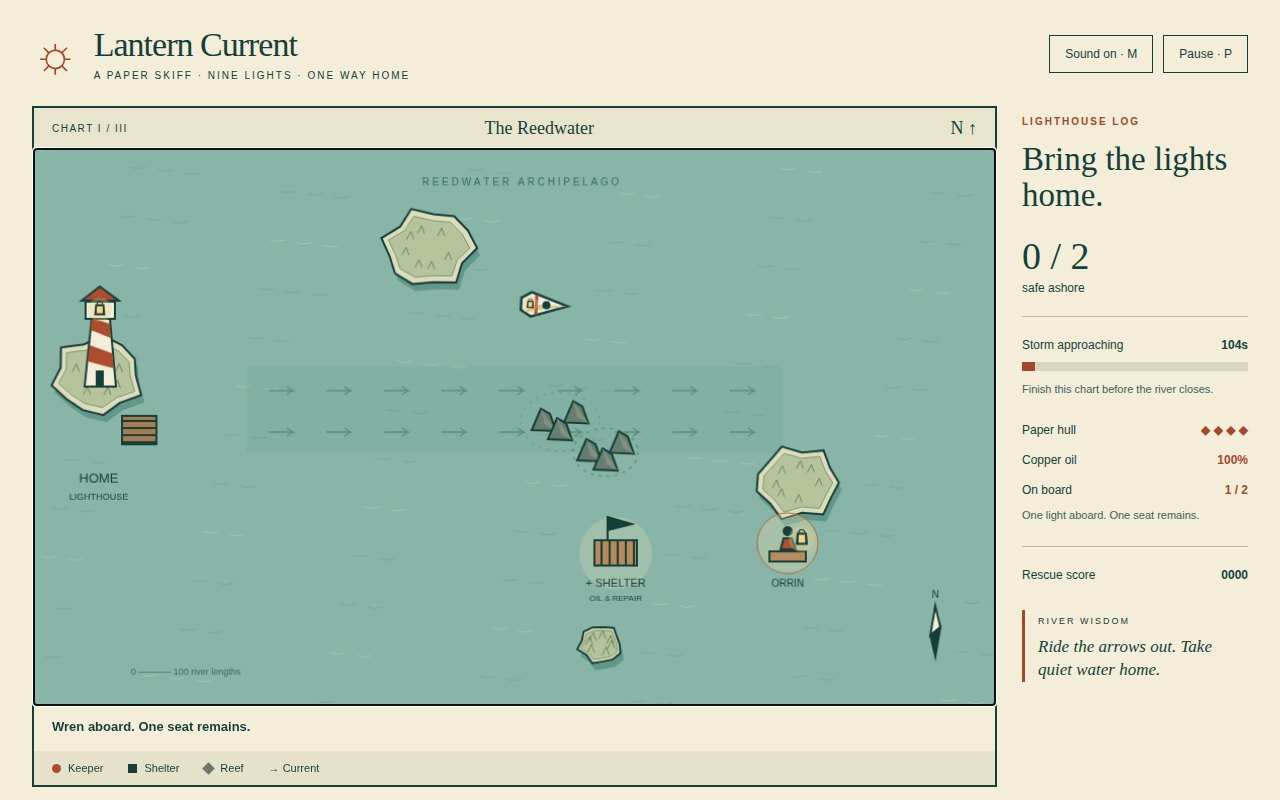
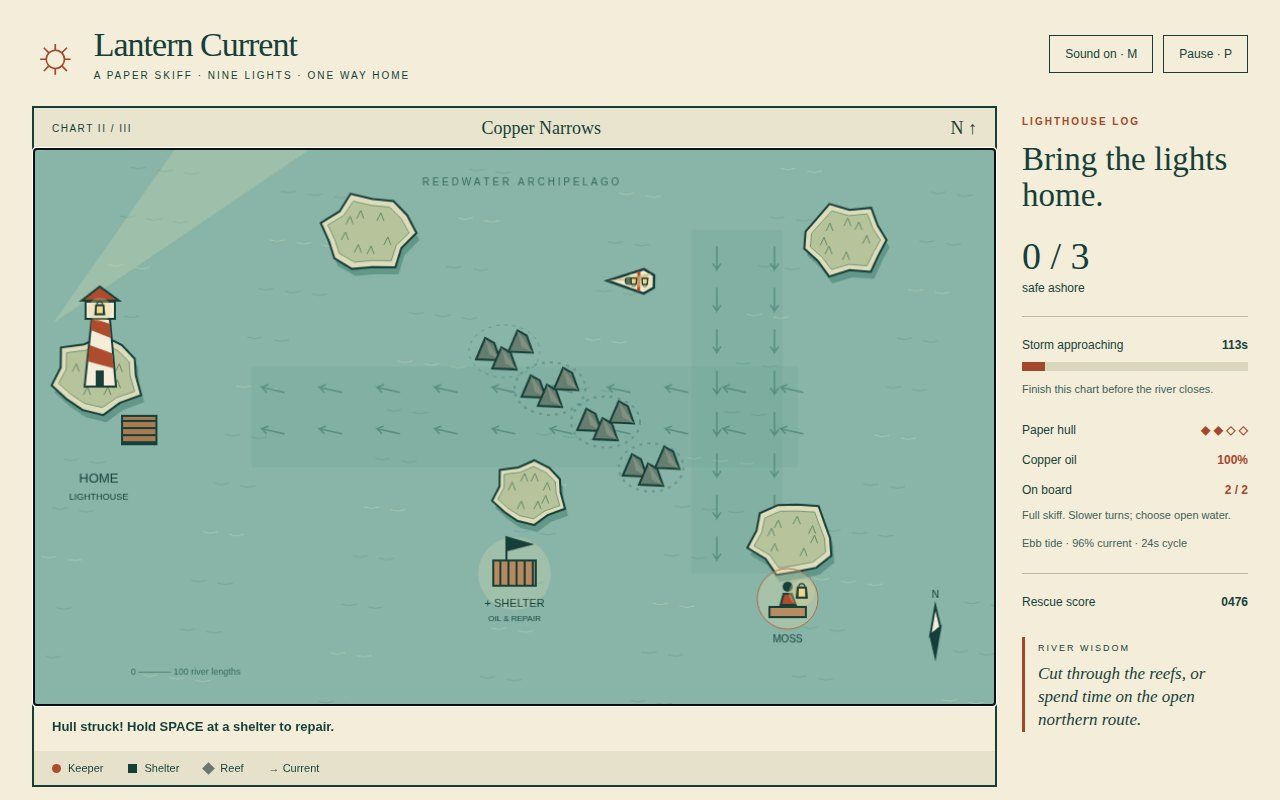
[verified] Add earned chart logbook, replay, and reversing tides

diff --git a/game/app.js b/game/app.js
@@ -1,9 +1,31 @@
-import { createGame, startGame, nextStage, step, createClock, snapshot } from './simulation.js';
+import { createGame, startGame, nextStage, step, createClock, snapshot, tideFactor } from './simulation.js';
+import { loadLogbook, isUnlocked, recordCompletion } from './logbook.js';
 import { STAGES } from './stages.js';
 import { drawRiver } from './render.js';
 import { RiverAudio } from './audio.js';
 const $ = id => document.getElementById(id);
 const state = createGame(), audio = new RiverAudio(), keys = new Set();
+const logbook = loadLogbook();
+const selector = document.createElement('div');
+selector.id = 'chart-selector'; selector.setAttribute('aria-label', 'Single-chart replay');
+$('panel').append(selector);
+const tide = document.createElement('p'); tide.id = 'tide'; tide.className = 'hint';
+$('cargo-note').after(tide);
+function updateLogbook() {
+  selector.replaceChildren();
+  const label = document.createElement('p'); label.textContent = 'Tide Logbook · replay one unlocked chart'; selector.append(label);
+  STAGES.forEach((chart, index) => {
+    const button = document.createElement('button'); button.id = `replay-${index}`;
+    button.disabled = !isUnlocked(logbook, index);
+    button.textContent = `${index + 1}. ${chart.name} · ${logbook.completed[index] ? `Complete · Best ${logbook.bestScores[index]}` : button.disabled ? 'Locked' : 'Unplayed'}`;
+    button.addEventListener('click', () => {
+      if (!isUnlocked(logbook, index)) return;
+      audio.unlock(); startGame(state, index, true); keys.clear(); clock.reset(); previous = performance.now();
+      updateUI(); canvas.focus({preventScroll:true});
+    });
+    selector.append(button);
+  });
+}
 const canvas = $('river'), ctx = canvas.getContext('2d');
 const reduced = matchMedia('(prefers-reduced-motion: reduce)').matches;
 let previous = performance.now(), visualTime = 0, shownMode = '', soundTouched = false;
@@ -47,10 +69,13 @@ function updateUI() {
   $('oil').textContent=`${Math.round(state.oil)}%`; $('cargo').textContent=`${state.cargo.length} / 2`;
   $('cargo-note').textContent=state.cargo.length===2?'Full skiff. Slower turns; choose open water.':state.cargo.length?'One light aboard. One seat remains.':'An empty skiff turns quickly.';
   $('score').textContent=String(state.score).padStart(4,'0');
+  const factor = tideFactor(chart, state.elapsed);
+  tide.textContent = `${state.replay ? 'Single-chart replay · ' : ''}${chart.tide ? `${Math.abs(factor) < .05 ? 'Slack tide' : factor > 0 ? 'Flow tide' : 'Ebb tide'} · ${Math.round(Math.abs(factor)*100)}% current · ${chart.tide.period}s cycle` : 'Steady tutorial current'}`;
   $('tip').textContent=state.stage===0?'Ride the arrows out. Take quiet water home.':state.stage===1?'Cut through the reefs, or spend time on the open northern route.':'Two rescue pairs. A shelter between them. Keep enough oil for home.';
   $('message').textContent=state.messageTime>0?state.message:state.cargo.length?'Return to HOME, or risk another pickup. Hold SPACE to dock.':chart.tip;
   if(shownMode===state.mode)return;
   shownMode=state.mode;
+  selector.hidden = !['title','between','won','lost','replayed'].includes(state.mode);
   $('veil').classList.toggle('hidden',state.mode==='play'); $('veil').classList.toggle('center',state.mode!=='title');
   $('pause').textContent=state.mode==='paused'?'Resume · P':'Pause · P';
   $('tutorial').classList.toggle('hidden',state.mode!=='title');
@@ -60,17 +85,24 @@ function updateUI() {
     paused:['THE RIVER CAN WAIT','Chart paused','Your skiff is anchored. Take a breath; the storm waits too.','Resume voyage','WASD / arrows steer · SPACE docks · SHIFT boosts'],
     between:[`CHART ${state.stage+1} COMPLETE`,'The light carries.',`${state.totalSaved} keepers safe so far. Next: ${STAGES[state.stage+1]?.name}. ${STAGES[state.stage+1]?.subtitle}`,'Open next chart',`Rescue score ${state.score} · Hull and oil restored for the next reach`],
     won:['ALL NINE LIGHTS HOME','A brighter shore.',`You brought every keeper through the storm. Nine windows glow along the river tonight.`,'Sail again',`Final rescue score ${state.score} · 3 charts completed · 9 keepers safe`],
+    replayed:['CHART COMPLETE','A light revisited.',`${chart.name}: ${state.saved.length} keepers safe. Single-chart replay complete.`,'Start full voyage',`Chart score ${state.chartScore} · Personal best ${logbook.bestScores[state.stage]}`],
     lost:['VOYAGE ENDED','The river remembers.',`${state.reason} ${state.totalSaved} of 9 keepers reached the lighthouse. Another skiff, another chance.`,'Try again',`Rescue score ${state.score} · Try lighter cargo or stop at a shelter`]
   };
+  if (state.mode === 'lost' && state.replay) modes.lost = ['REPLAY ENDED','The river remembers.',`${state.reason} ${state.saved.length} of ${state.keepers.length} keepers safe on this chart.`,'Start full voyage',`Partial score ${state.chartScore} · No completion recorded`];
+  if (['between','won'].includes(state.mode)) modes[state.mode][4] += ` · This chart ${state.chartScore} · Best ${logbook.bestScores[state.stage]}`;
   const copy=modes[state.mode];if(copy){$('panel-kicker').textContent=copy[0];$('panel-title').textContent=copy[1];$('panel-copy').textContent=copy[2];$('primary').textContent=copy[3];$('panel-foot').textContent=copy[4];}
 }
 function frame(now) {
   const dt=(now-previous)/1000;previous=now;
   if(state.mode==='play')clock.advance(dt);
   if(!reduced && state.mode!=='paused')visualTime+=Math.min(dt,.1);
-  for(const event of state.events)audio.play(event.kind);state.events.length=0;
+  for(const event of state.events) {
+    audio.play(event.kind);
+    if (event.kind === 'stage') { recordCompletion(logbook, event.chart, event.chartScore); updateLogbook(); }
+  }
+  state.events.length=0;
   drawRiver(ctx,state,visualTime,reduced);updateUI();requestAnimationFrame(frame);
 }
 // A detached snapshot is the only diagnostic surface. It cannot mutate the simulation.
 Object.defineProperty(window,'lanternState',{value:()=>snapshot(state),writable:false,configurable:false});
-updateUI();requestAnimationFrame(frame);
+updateLogbook();updateUI();requestAnimationFrame(frame);

diff --git a/tests/logbook.test.js b/tests/logbook.test.js
@@ -1,0 +1,56 @@
+import test from 'node:test';
+import assert from 'node:assert/strict';
+import { emptyLogbook, loadLogbook, saveLogbook, recordCompletion, isUnlocked } from '../game/logbook.js';
+import { createGame, startGame, nextStage, step, snapshot, tideFactor, createClock } from '../game/simulation.js';
+import { STAGES } from '../game/stages.js';
+const run = (s, input, seconds) => { for (let i=0;i<seconds*60;i++) step(s,input); };
+test('storage exceptions including getter are safe; memory progress survives write denial', () => {
+  const descriptor=Object.getOwnPropertyDescriptor(globalThis,'localStorage');
+  Object.defineProperty(globalThis,'localStorage',{configurable:true,get(){throw Error('denied');}});
+  try { const book=loadLogbook(); assert.deepEqual(book,emptyLogbook(3)); assert.equal(saveLogbook(book),false); assert.equal(recordCompletion(book,0,200),true); assert.equal(book.completed[0],true); }
+  finally { if(descriptor)Object.defineProperty(globalThis,'localStorage',descriptor);else delete globalThis.localStorage; }
+});
+test('malformed, incoherent, version and invalid-score storage fail closed', () => {
+  const bad=['{',null,{version:2,completed:[false,false,false],bestScores:[null,null,null]}];
+  for(const score of [null,-1,1.2,1000001,'200']) bad.push({version:1,completed:[true,false,false],bestScores:[score,null,null]});
+  bad.push({version:1,completed:[false,true,false],bestScores:[null,200,null]}, {version:1,completed:[false,false,false],bestScores:[200,null,null]});
+  for(const value of bad)assert.deepEqual(loadLogbook({getItem:()=>typeof value==='string'?value:JSON.stringify(value)}),emptyLogbook(3));
+});
+test('sequential unlock, best-only writes, idempotence and reload', () => {
+  let raw=null,writes=0; const storage={getItem:()=>raw,setItem:(key,value)=>{raw=value;writes++;}};
+  const book=loadLogbook(storage); assert.equal(isUnlocked(book,1),false);
+  for(const score of [null,NaN,Infinity,-1,2.5])assert.equal(recordCompletion(book,0,score,storage),false);
+  assert.equal(recordCompletion(book,1,300,storage),false);
+  assert.equal(recordCompletion(book,0,200,storage),true);
+  assert.equal(recordCompletion(book,0,200,storage),false); assert.equal(recordCompletion(book,0,100,storage),false);
+  assert.equal(writes,1); assert.equal(isUnlocked(book,1),true); assert.equal(isUnlocked(book,3),false);
+  recordCompletion(book,0,300,storage); recordCompletion(book,1,400,storage);
+  assert.deepEqual(loadLogbook(storage),book); assert.equal(writes,3);
+});
+test('single-chart completion emits once and restart clears all voyage state', () => {
+  const s=createGame();startGame(s,1,true);s.saved=[0];s.cargo=[1,2];s.chartScore=100;s.score=100;
+  run(s,{anchor:true},1);assert.equal(s.mode,'replayed');assert.equal(s.events.filter(e=>e.kind==='stage').length,1);
+  const event=s.events.find(e=>e.kind==='stage');assert.equal(event.chart,1);assert.equal(event.chartScore,s.chartScore);
+  const before=snapshot(s);run(s,{},2);nextStage(s);assert.deepEqual(s,before);
+  startGame(s);assert.equal(s.replay,false);assert.equal(s.stage,0);assert.equal(s.score,0);assert.equal(s.chartScore,0);assert.deepEqual(s.cargo,[]);assert.deepEqual(s.events,[]);
+});
+test('partial delivery and loss never emit completion', () => {
+  const s=createGame();startGame(s);s.cargo=[0];run(s,{anchor:true},1);assert.equal(s.chartScore,100);assert.equal(s.events.some(e=>e.kind==='stage'),false);
+  s.remaining=0;step(s,{});assert.equal(s.mode,'lost');assert.equal(s.events.some(e=>e.kind==='stage'),false);
+});
+test('later tides reverse, anchor resists flow, pause freezes phase and sustained movement survives reversal', () => {
+  for(const index of [1,2]) {
+    const chart=STAGES[index];assert.equal(tideFactor(chart,0),1);assert.equal(tideFactor(chart,chart.tide.period/2),-1);
+    const s=createGame();startGame(s,index);s.boat.x=240;s.boat.y=240;s.elapsed=chart.tide.period/4-1;
+    run(s,{x:1,anchor:true},2);assert.ok(s.boat.x>240);assert.ok(tideFactor(chart,s.elapsed)<0);assert.equal(s.mode,'play');
+    s.mode='paused';const before=snapshot(s);run(s,{x:1},2);assert.deepEqual(s,before);
+    const anchored=createGame(),free=createGame();startGame(anchored,index);startGame(free,index);
+    for(const state of [anchored,free]) {state.boat.x=240;state.boat.y=240;}
+    run(anchored,{anchor:true},1);run(free,{},1);assert.ok(Math.abs(anchored.boat.x-240)<Math.abs(free.boat.x-240));
+  }
+  assert.equal(tideFactor(STAGES[0],999),1);
+});
+test('later tide timing is identical at 30, 60 and 144Hz across a full cycle', () => {
+  function journey(fps) {const s=createGame();startGame(s,2);const clock=createClock(dt=>step(s,{anchor:true},dt));for(let i=0;i<fps*32;i++)clock.advance(1/fps);return snapshot(s);}
+  assert.deepEqual(journey(30),journey(60));assert.deepEqual(journey(60),journey(144));
+});

diff --git a/game/simulation.js b/game/simulation.js
@@ -3,26 +3,36 @@ export const STEP = 1 / 60;
 const clamp = (v, a, b) => Math.max(a, Math.min(b, v));
 export const distance = (a, b) => Math.hypot(a.x - b.x, a.y - b.y);
 export function createGame() {
-  return { mode: 'title', stage: 0, score: 0, totalSaved: 0, ticks: 0, events: [], ...stageState(0) };
+  return { mode: 'title', replay: false, stage: 0, score: 0, totalSaved: 0, ticks: 0, events: [], ...stageState(0) };
 }
 function stageState(index) {
   return { boat: { ...HOME, vx: 0, vy: 0, angle: 0 }, remaining: STAGES[index].limit,
-    hull: 4, oil: 100, cargo: [], saved: [], keepers: STAGES[index].keepers.map((k, id) => ({ ...k, id, status: 'waiting' })),
+    hull: 4, oil: 100, cargo: [], saved: [], chartScore: 0, keepers: STAGES[index].keepers.map((k, id) => ({ ...k, id, status: 'waiting' })),
     invulnerable: 0, dockTime: 0, dockTarget: '', repairTime: 0, message: STAGES[index].tip, messageTime: 8, reason: '', elapsed: 0 };
 }
-export function startGame(s) { Object.assign(s, createGame(), { mode: 'play' }); }
+export function startGame(s, stage = 0, replay = false) {
+  if (!Number.isInteger(stage) || stage < 0 || stage >= STAGES.length) return false;
+  Object.assign(s, createGame(), { stage, replay, ...stageState(stage), mode: 'play' });
+  return true;
+}
 export function nextStage(s) {
   if (s.mode !== 'between') return;
   s.stage += 1;
   Object.assign(s, stageState(s.stage), { mode: 'play' });
 }
-function signal(s, kind, text) {
-  s.events.push({ kind, x: s.boat.x, y: s.boat.y });
+function signal(s, kind, text, details = {}) {
+  s.events.push({ kind, x: s.boat.x, y: s.boat.y, ...details });
   s.message = text; s.messageTime = 4;
 }
-export function currentAt(stage, boat) {
+export function tideFactor(stage, elapsed = 0) {
+  if (!stage.tide) return 1;
+  const wave = Math.cos(elapsed / stage.tide.period * Math.PI * 2);
+  return wave * (0.65 + 0.35 * Math.abs(wave));
+}
+export function currentAt(stage, boat, elapsed = 0) {
   let x = 0, y = 0;
-  for (const c of stage.currents) if (boat.x > c.x && boat.x < c.x + c.w && boat.y > c.y && boat.y < c.y + c.h) { x += c.dx; y += c.dy; }
+  const tide = tideFactor(stage, elapsed);
+  for (const c of stage.currents) if (boat.x > c.x && boat.x < c.x + c.w && boat.y > c.y && boat.y < c.y + c.h) { x += c.dx * tide; y += c.dy * tide; }
   return { x, y };
 }
 export function step(s, input = {}, dt = STEP) {
@@ -36,7 +46,7 @@ export function step(s, input = {}, dt = STEP) {
   if (boost) s.oil = Math.max(0, s.oil - 19 * dt);
   const speed = (145 - s.cargo.length * 18) * (boost ? 1.65 : 1) * (anchored ? 0.2 : 1);
   const response = anchored ? 13 : 6 - s.cargo.length * 1.3;
-  const flow = currentAt(stage, b), blend = 1 - Math.exp(-response * dt);
+  const flow = currentAt(stage, b, s.elapsed), blend = 1 - Math.exp(-response * dt);
   b.vx += (x * speed + flow.x * (anchored ? 0.07 : 1) - b.vx) * blend;
   b.vy += (y * speed + flow.y * (anchored ? 0.07 : 1) - b.vy) * blend;
   b.x = clamp(b.x + b.vx * dt, 20, 930); b.y = clamp(b.y + b.vy * dt, 30, 520);
@@ -70,13 +80,13 @@ export function step(s, input = {}, dt = STEP) {
     }
     if (s.dockTime >= 0.65) {
       if (atHome && s.cargo.length) {
-        const count = s.cargo.length; s.saved.push(...s.cargo); s.totalSaved += count; s.score += count * 100;
+        const count = s.cargo.length; s.saved.push(...s.cargo); s.totalSaved += count; s.score += count * 100; s.chartScore += count * 100;
         for (const id of s.cargo) s.keepers[id].status = 'saved';
         s.cargo = []; signal(s, 'delivery', `${count} ${count === 1 ? 'light' : 'lights'} home. The lighthouse burns brighter.`);
         if (s.saved.length === s.keepers.length) {
-          s.score += Math.floor(s.remaining) * 2 + s.hull * 25;
-          s.mode = s.stage === STAGES.length - 1 ? 'won' : 'between';
-          signal(s, 'stage', s.mode === 'won' ? 'Every light is home.' : 'This reach is safe. A new chart awaits.');
+          const bonus = Math.floor(s.remaining) * 2 + s.hull * 25; s.score += bonus; s.chartScore += bonus;
+          s.mode = s.replay ? 'replayed' : s.stage === STAGES.length - 1 ? 'won' : 'between';
+          signal(s, 'stage', s.replay ? 'Single-chart replay complete.' : s.mode === 'won' ? 'Every light is home.' : 'This reach is safe. A new chart awaits.', { chart: s.stage, chartScore: s.chartScore });
         }
       } else if (keeper && s.cargo.length < 2) {
         keeper.status = 'aboard'; s.cargo.push(keeper.id); s.dockTime = 0;

diff --git a/game/logbook.js b/game/logbook.js
@@ -1,0 +1,49 @@
+const VERSION = 1;
+export const LOGBOOK_KEY = 'lantern-current-logbook-v1';
+
+function blank(count) {
+  return { version: VERSION, completed: Array(count).fill(false), bestScores: Array(count).fill(null) };
+}
+
+function validScore(value) {
+  return Number.isInteger(value) && value >= 0 && value <= 1000000;
+}
+
+export function emptyLogbook(count) { return blank(count); }
+
+export function sanitizeLogbook(value, count) {
+  if (!value || value.version !== VERSION || !Array.isArray(value.completed) || !Array.isArray(value.bestScores) ||
+      value.completed.length !== count || value.bestScores.length !== count ||
+      !value.completed.every((item, i) => typeof item === 'boolean' &&
+        (item ? validScore(value.bestScores[i]) && (i === 0 || value.completed[i - 1]) : value.bestScores[i] === null))) return blank(count);
+  return { version: VERSION, completed: [...value.completed], bestScores: [...value.bestScores] };
+}
+
+export function loadLogbook(storage, count = 3) {
+  try {
+    if (storage === undefined) storage = globalThis.localStorage;
+    const raw = storage?.getItem(LOGBOOK_KEY);
+    return sanitizeLogbook(raw === null ? null : JSON.parse(raw), count);
+  } catch { return blank(count); }
+}
+
+export function saveLogbook(logbook, storage) {
+  try {
+    if (storage === undefined) storage = globalThis.localStorage;
+    if (!storage) return false;
+    storage.setItem(LOGBOOK_KEY, JSON.stringify(logbook)); return true;
+  } catch { return false; }
+}
+
+export function isUnlocked(logbook, chart) {
+  return Number.isInteger(chart) && chart >= 0 && chart < logbook.completed.length && (chart === 0 || logbook.completed[chart - 1] === true);
+}
+
+export function recordCompletion(logbook, chart, score, storage) {
+  if (!isUnlocked(logbook, chart) || !validScore(score)) return false;
+  const changed = !logbook.completed[chart] || logbook.bestScores[chart] === null || score > logbook.bestScores[chart];
+  logbook.completed[chart] = true;
+  if (changed) logbook.bestScores[chart] = score;
+  if (changed) saveLogbook(logbook, storage);
+  return changed;
+}

diff --git a/game/render.js b/game/render.js
@@ -1,4 +1,5 @@
 import { STAGES, HOME } from './stages.js';
+import { tideFactor } from './simulation.js';
 const INK = '#173f3a', PAPER = '#f3edda', COPPER = '#ad4c2e';
 function path(ctx, points, fill, stroke = INK, width = 2) {
   ctx.beginPath(); points.forEach(([x, y], i) => i ? ctx.lineTo(x, y) : ctx.moveTo(x, y)); ctx.closePath();
@@ -35,14 +36,16 @@ function lighthouse(ctx, saved, time, reduced) {
 }
 export function drawRiver(ctx, s, time, reduced = false) {
   const stage = STAGES[s.stage];
+  const tide = tideFactor(stage, s.elapsed);
   ctx.clearRect(0,0,950,550); ctx.fillStyle = '#88b5a7'; ctx.fillRect(0,0,950,550);
   // Deterministic ink marks, not image assets or per-frame randomness.
   for (let i = 0; i < 155; i++) { const x = (i * 137.3) % 950, y = (i * 71.7) % 550; ctx.strokeStyle = i % 3 ? '#6fa394' : '#b3cbb3'; ctx.lineWidth = .7; ctx.beginPath(); ctx.moveTo(x,y); ctx.quadraticCurveTo(x+7,y+3,x+15,y); ctx.stroke(); }
   for (const c of stage.currents) {
     ctx.fillStyle = '#4e8e7e18'; ctx.fillRect(c.x,c.y,c.w,c.h);
     for (let x=c.x+25;x<c.x+c.w;x+=57) for (let y=c.y+24;y<c.y+c.h;y+=41) {
-      ctx.save(); ctx.translate(x,y); ctx.rotate(Math.atan2(c.dy,c.dx));
-      const drift = reduced ? 0 : (time * 10 % 14); ctx.translate(drift,0);
+      ctx.save(); ctx.translate(x,y); ctx.rotate(Math.atan2(c.dy,c.dx) + (tide < 0 ? Math.PI : 0));
+      ctx.scale(Math.abs(tide), 1);
+      const drift = reduced ? 0 : (s.elapsed * 10 % 14); ctx.translate(drift,0);
       ctx.strokeStyle = '#326d6080'; ctx.lineWidth = 1.5; ctx.beginPath(); ctx.moveTo(-12,0); ctx.lineTo(12,0); ctx.lineTo(6,-4); ctx.moveTo(12,0); ctx.lineTo(6,4); ctx.stroke(); ctx.restore();
     }
   }

diff --git a/game/stages.js b/game/stages.js
@@ -15,6 +15,7 @@ export const STAGES = [
     keepers: [{ x: 330, y: 145, name: 'Pip' }, { x: 790, y: 150, name: 'Sable' }, { x: 745, y: 445, name: 'Moss' }],
     islands: [{ x: 330, y: 83, r: 43 }, { x: 802, y: 90, r: 40 }, { x: 750, y: 385, r: 41 }, { x: 490, y: 340, r: 35 }],
     reefs: [{ x: 465, y: 200, r: 26 }, { x: 510, y: 237, r: 26 }, { x: 565, y: 270, r: 25 }, { x: 610, y: 315, r: 23 }],
+    tide: { period: 24, label: 'Copper tide' },
     currents: [{ x: 215, y: 215, w: 540, h: 100, dx: 44, dy: 10 }, { x: 650, y: 80, w: 90, h: 340, dx: 0, dy: -28 }],
     docks: [{ x: 475, y: 420, name: 'Copper shelter' }]
   },
@@ -24,6 +25,7 @@ export const STAGES = [
     keepers: [{ x: 360, y: 140, name: 'Ash' }, { x: 800, y: 140, name: 'Finch' }, { x: 815, y: 450, name: 'Fern' }, { x: 350, y: 450, name: 'Rook' }],
     islands: [{ x: 360, y: 78, r: 42 }, { x: 805, y: 78, r: 40 }, { x: 825, y: 390, r: 40 }, { x: 350, y: 390, r: 39 }, { x: 590, y: 255, r: 43 }],
     reefs: [{ x: 450, y: 218, r: 25 }, { x: 475, y: 285, r: 27 }, { x: 685, y: 350, r: 32 }, { x: 715, y: 220, r: 25 }],
+    tide: { period: 30, label: 'Last Reach tide' },
     currents: [{ x: 200, y: 195, w: 600, h: 110, dx: 49, dy: 0 }, { x: 625, y: 80, w: 80, h: 390, dx: 0, dy: 38 }],
     docks: [{ x: 560, y: 420, name: 'Last shelter' }]
   }

diff --git a/tests/browser.py b/tests/browser.py
@@ -88,7 +88,7 @@ try:
             assert not state()['cargo']
             report['journey'].append({'event':'delivery','state':state()})
         assert state()['mode']=='title'
-        capture('2-start.jpg')
+        assert page.locator('#replay-1').is_disabled() and page.locator('#replay-2').is_disabled()
         def focused(identifier):
             return page.locator(f'#{identifier}').evaluate('(element) => element === document.activeElement')
         def tab_to(identifier):
@@ -151,7 +151,7 @@ try:
         check('mouse resume restores gameplay focus')
         pickup(0,[(210,160)])
         sail(500,155)
-        capture('1-play.jpg')
+        capture('3-depth.jpg')
         pickup(1,[(680,160),(700,410)])
         home([(660,430),(190,430)])
         assert state()['mode']=='between' and state()['totalSaved']==2
@@ -162,7 +162,8 @@ try:
         pickup(0,[(210,145)])
         pickup(1,[(570,130),(750,150)])
         sail(590,130)
-        capture('3-depth.jpg')
+        assert 'tide' in page.locator('#tide').inner_text()
+        capture('1-play.jpg')
         home([(570,130),(180,145)])
         pickup(2,[(190,490),(745,490)])
         home([(745,490),(190,490)])
@@ -204,6 +205,29 @@ try:
         check('mouse resume and mute')
         page.reload(); advance(100)
         assert state()['mode']=='title'
+        earned = [page.locator(f'#replay-{i}').inner_text() for i in range(3)]
+        assert all('Complete' in text and 'Best' in text for text in earned)
+        assert all(page.locator(f'#replay-{i}').is_enabled() for i in range(3))
+        capture('2-start.jpg')
+        page.locator('#replay-1').click()
+        assert state()['replay'] and state()['stage']==1 and state()['score']==0 and state()['cargo']==[]
+        page.keyboard.press('p'); frozen=state(); advance(13000); assert state()==frozen
+        page.keyboard.press('p')
+        pickup(0,[(210,145)])
+        pickup(1,[(570,130),(750,150)])
+        home([(570,130),(180,145)])
+        pickup(2,[(190,490),(745,490)])
+        home([(745,490),(190,490)])
+        assert state()['mode']=='replayed' and state()['totalSaved']==3
+        assert 'Single-chart replay complete' in page.locator('#panel-copy').inner_text()
+        page.get_by_role('button',name='Start full voyage').click()
+        assert state()['stage']==0 and not state()['replay'] and state()['score']==0 and state()['cargo']==[]
+        check('earned logbook restored; mouse replay completes only one chart; pause freezes tide; full voyage resets')
+        page.reload(); advance(100)
+        page.locator('#replay-2').focus(); page.keyboard.press('Enter')
+        assert state()['stage']==2 and state()['replay'] and focused('river')
+        check('unlocked chart replay supports native keyboard activation')
+        page.reload(); advance(100)
         page.get_by_role('button',name='Cast off').click()
         assert state()['mode']=='play' and focused('river')
         start_x=state()['boat']['x']
@@ -213,8 +237,8 @@ try:
         # Only read detached diagnostics here; snapshot isolation is unit-tested.
         assert not report['errors'], report['errors']
         assert not report['external_requests'], report['external_requests']
-        assert len([e for e in report['journey'] if e['event']=='rescue'])==9
-        assert len([e for e in report['journey'] if e['event']=='delivery'])==5
+        assert len([e for e in report['journey'] if e['event']=='rescue'])==12
+        assert len([e for e in report['journey'] if e['event']=='delivery'])==7
         check('nine rescues, five deliveries, three charts and legitimate win')
         check('zero console/page errors and external requests')
         assert len(report['screenshots'])==(0 if args.no_capture else 4)

diff --git a/README.md b/README.md
@@ -20,9 +20,19 @@ Reefs and islands damage the hull, with a recovery interval. There are two seats
 
 ## Source and verification
 
+## Tide Logbook
+
+Full voyage remains the default. The title and results offer native keyboard-accessible buttons to replay one unlocked chart. Completing a chart unlocks the next and records that chart's best completed rescue score locally; partial rescues and losses never earn completion. A replay ends after its selected chart and offers a fresh full voyage. Restart clears cargo and run scores while retaining earned progress.
+
+Charts II and III have deterministic 24-second and 30-second ebb/flow cycles. Arrows reverse and shorten with the actual current; the HUD reports phase and strength. Pause freezes the tide. Chart I keeps its steady tutorial current. Open northern and southern routes remain viable.
+
+The logbook rejects malformed, incompatible, out-of-range and nonsequential saved records. If browser storage is denied, progress remains available for the current page only. Local storage is local to the browser/origin, not a cloud account or tamper-proof record. No new dependencies are required.
+
+## Source and verification details
+
 `game/simulation.js` owns deterministic rules and a capped 60 Hz clock; `stages.js` contains the three authored charts; `render.js` draws the ink chart; `audio.js` synthesizes feedback; `app.js` owns input, menus and accessibility. The read-only `window.lanternState()` returns a detached snapshot for diagnostics; there are no in-game state setters or cheat controls. Reduced motion follows the operating system; DPR is capped at two.
 
-Run `node --test tests/simulation.test.js` with Node 22. Boundary regressions cover storm expiry and fatal home-dock contact taking precedence over same-tick delivery or repair. Browser checks are in `tests/browser.py` and use Python Playwright plus `/snap/bin/chromium`. They operate real keyboard and mouse controls through a complete three-chart voyage, check native button activation and record detached diagnostic snapshots.
+Run `node --test tests/simulation.test.js tests/logbook.test.js` with Node 22. All thirteen original regressions are retained, alongside seven logbook/replay/tide tests. Boundary regressions cover storm expiry and fatal home-dock contact taking precedence over same-tick delivery or repair. Browser checks are in `tests/browser.py` and use Python Playwright plus `/snap/bin/chromium`. They operate real keyboard and mouse controls through a complete three-chart voyage and a single-chart replay, check persisted earned progress after refresh and native button activation, and record detached diagnostic snapshots.
 
     python3 tests/browser.py --artifacts-dir /tmp/lantern-current-browser
     python3 tests/browser.py --artifacts-dir /tmp/lantern-current-verification --no-capture
